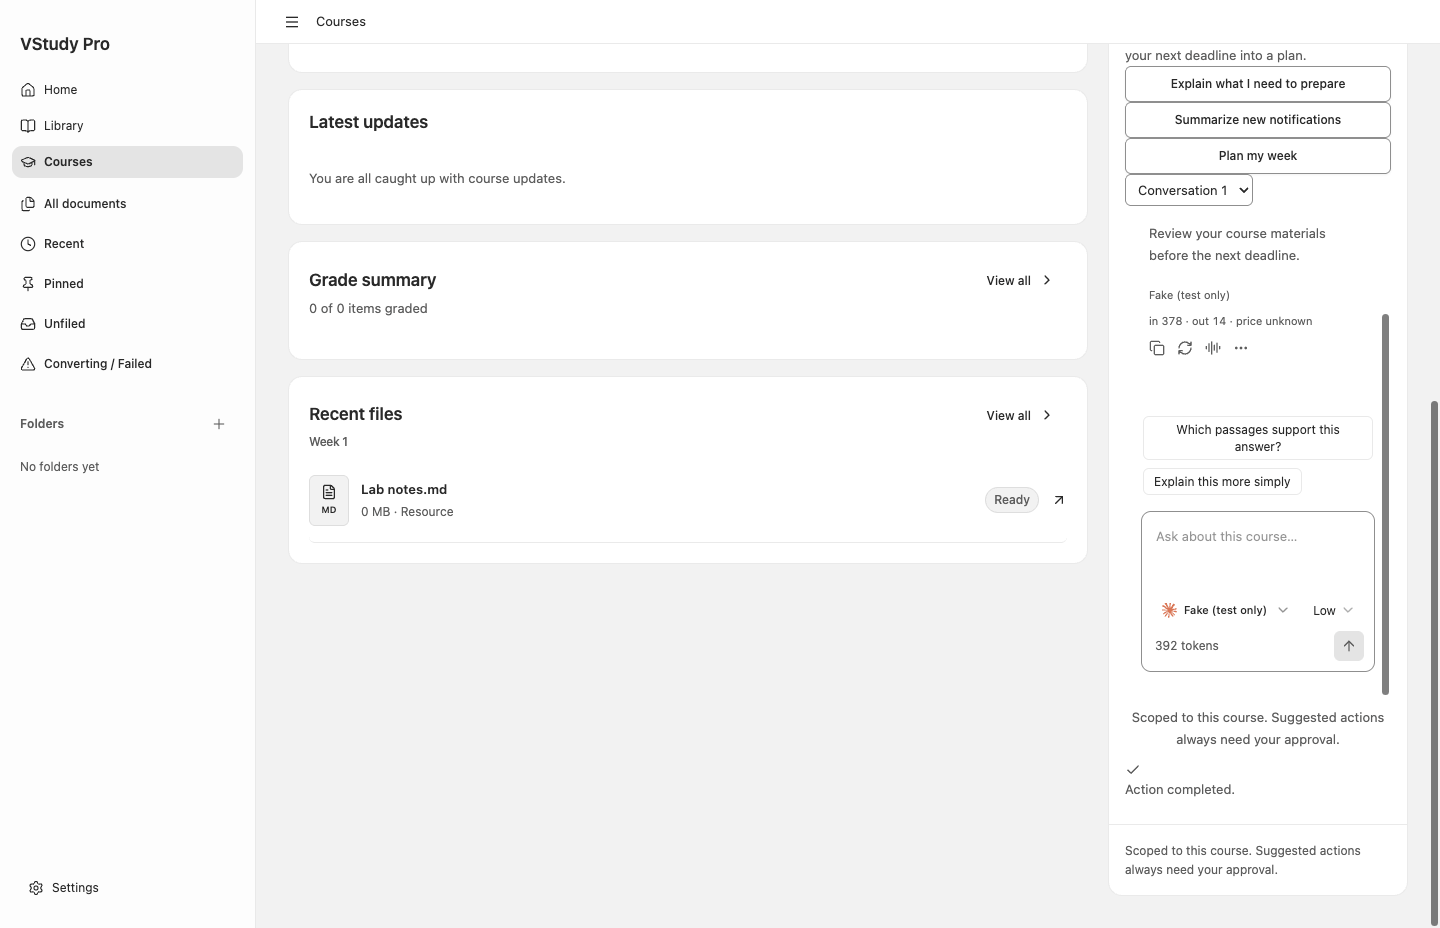
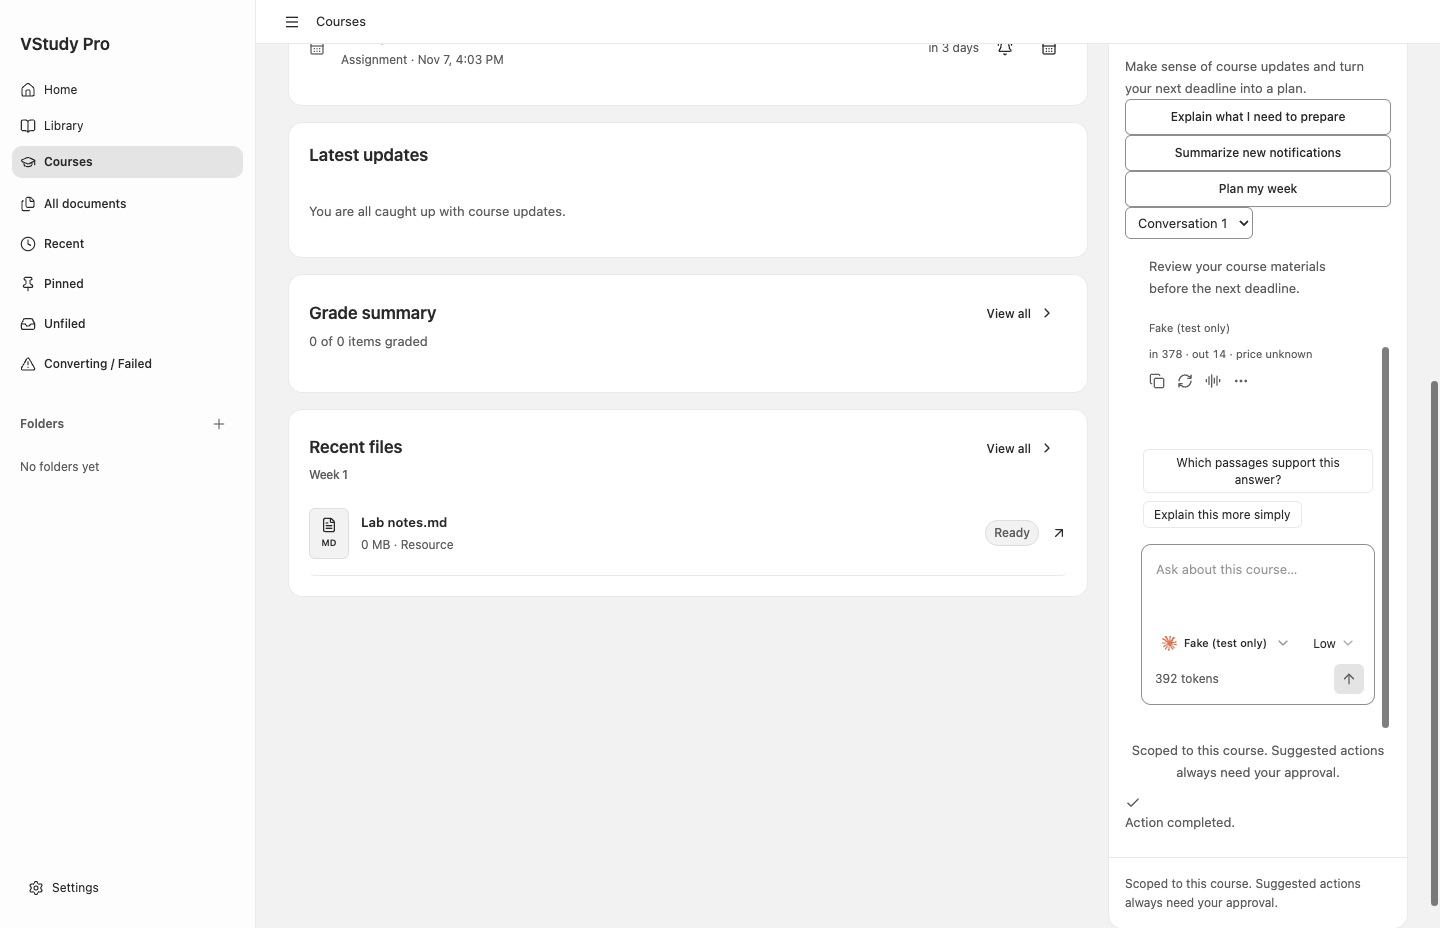
fix(courses): restore card semantics and proposal focus

diff --git a/apps/desktop/src/renderer/courses/index.tsx b/apps/desktop/src/renderer/courses/index.tsx
@@ -388,6 +388,7 @@ export function Courses({
                 {!n.read && (
                   <span
                     className="moodle-unread"
+                    role="img"
                     aria-label={tr("moodle:unread")}
                   />
                 )}
@@ -925,14 +926,13 @@ export function Courses({
               </div>
               <div className="moodle-grid">
                 {overview.courses.map((course) => (
-                  <button
+                  <article
                     key={course.id}
                     className="moodle-course-card"
-                    onClick={() => onCourse(course.id)}
                   >
                     <Cover course={course} />
                     <div className="moodle-card-body">
-                      <h3>{course.fullName}</h3>
+                      <h3><button type="button" onClick={() => onCourse(course.id)}>{course.fullName}</button></h3>
                       <div className="moodle-progress-label">
                         <span>{tr("moodle:progress")}</span>
                         <strong>
@@ -969,7 +969,7 @@ export function Courses({
                         </span>
                       </footer>
                     </div>
-                  </button>
+                  </article>
                 ))}
               </div>
             </section>

diff --git a/apps/desktop/src/renderer/courses/courses.test.tsx b/apps/desktop/src/renderer/courses/courses.test.tsx
@@ -306,6 +306,7 @@ describe("Courses", () => {
     );
     expect((await api.course(detail.course.id)).reminders[0]?.createdBy).toBe("agent");
     expect(host.textContent).toContain("Action completed.");
+    expect(document.activeElement?.className).toBe("moodle-agent");
   });
 });
 
@@ -379,4 +380,13 @@ it('reports a refresh failure separately after a successful mark-read',async () 
   await click('Mark as read');
   expect(host.textContent).not.toContain('Something went wrong');
   expect(host.querySelector('[role=alert]')?.textContent).toContain('Showing your last synced courses.');
+});
+
+it('uses semantic course cards and labels unread indicators',async () => {
+  const api = createMockMoodleApi(); await mount(api);
+  expect(host.querySelectorAll('button h3, button progress')).toHaveLength(0);
+  expect(host.querySelectorAll('article.moodle-course-card button')).toHaveLength(3);
+  await mount(api,(await api.overview()).courses[0]!.id); await tab('Notifications');
+  expect(host.querySelector('.moodle-unread')?.getAttribute('role')).toBe('img');
+  expect(host.querySelector('.moodle-unread')?.getAttribute('aria-label')).toBe('Unread');
 });

diff --git a/apps/desktop/src/renderer/courses/agent.tsx b/apps/desktop/src/renderer/courses/agent.tsx
@@ -165,6 +165,8 @@ export function CourseAgentPanel({
       onError();
     }
   };
+  const panel = useRef<HTMLElement>(null);
+  useEffect(() => { if (status === "done") panel.current?.focus(); }, [status]);
   const approve = async (action: MoodleAgentAction) => {
     if (approving.current) return;
     approving.current = true;
@@ -189,7 +191,7 @@ export function CourseAgentPanel({
     }
   };
   return (
-    <aside className="moodle-agent" aria-label={tr("moodle:course_assistant")}>
+    <aside ref={panel} tabIndex={-1} className="moodle-agent" aria-label={tr("moodle:course_assistant")}>
       <div className="moodle-agent-heading">
         <Sparkles />
         <h2>{tr("moodle:course_assistant")}</h2>

diff --git a/apps/desktop/src/renderer/courses/courses.css b/apps/desktop/src/renderer/courses/courses.css
@@ -789,3 +789,20 @@
 .moodle-course-chat { display: flex; flex-direction: column; height: 540px; min-width: 0; margin-top: var(--space-4); }
 .moodle-course-chat .aui-thread-root { flex: 1; min-height: 0; }
 .moodle-course-chat .composer-note { flex: none; }
+.moodle-course-card {
+  position: relative;
+}
+.moodle-course-card h3 button {
+  text-align: inherit;
+  font: inherit;
+  color: inherit;
+}
+.moodle-course-card h3 button::after {
+  content: "";
+  position: absolute;
+  inset: 0;
+}
+.moodle-course-card:focus-within {
+  outline: 2px solid var(--ink);
+  outline-offset: 2px;
+}
